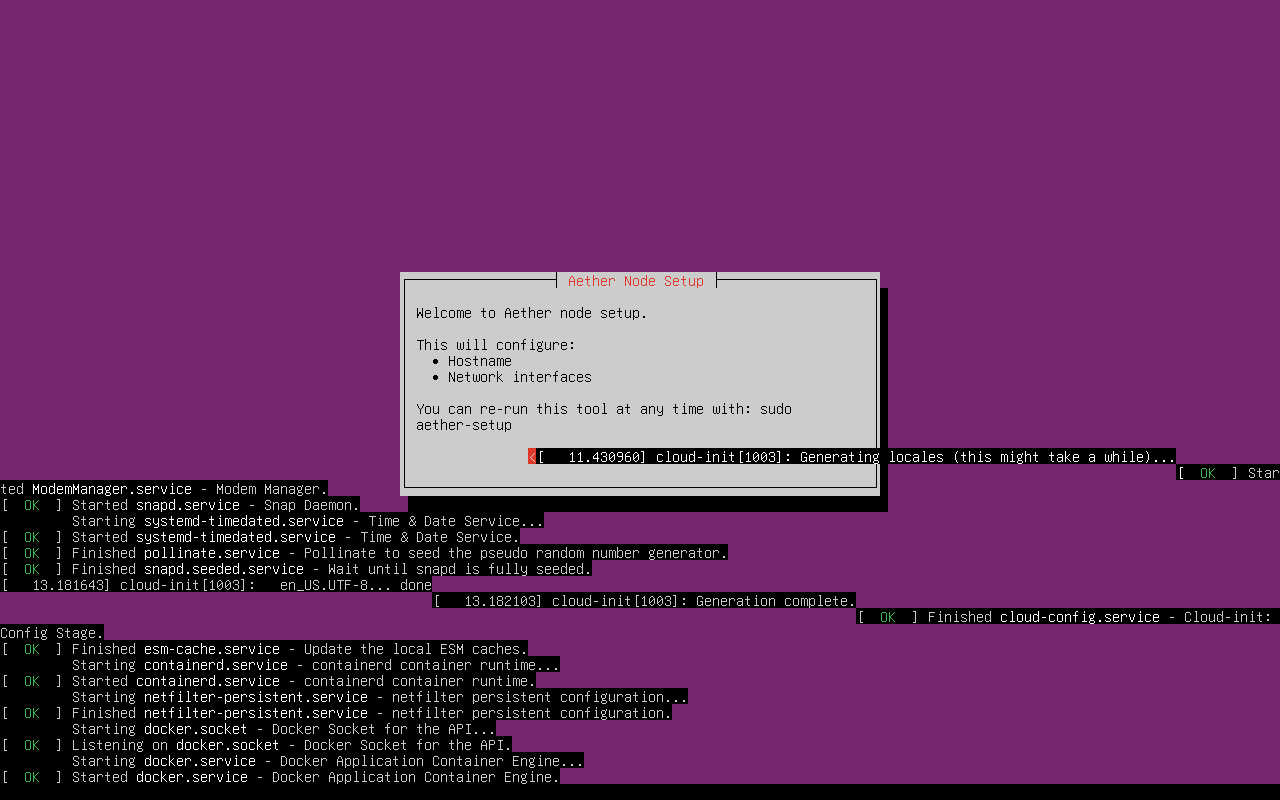
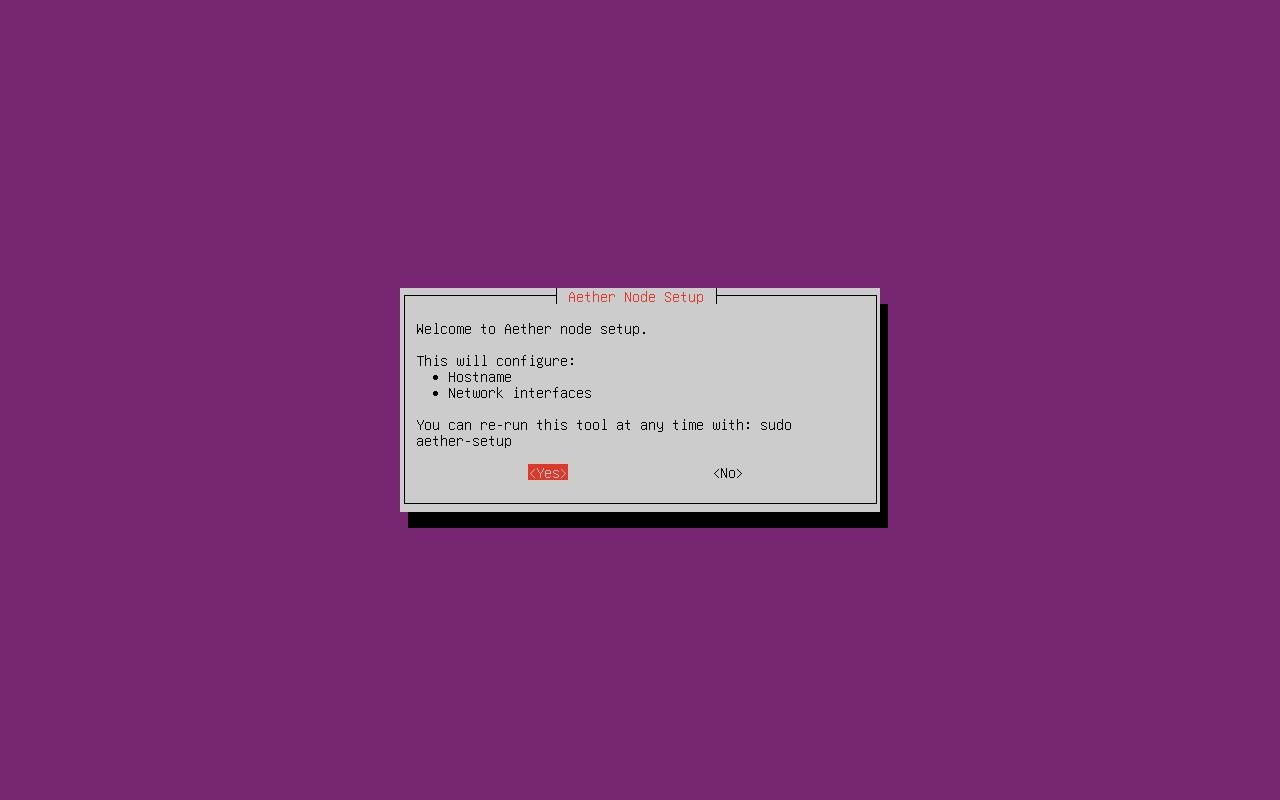
Refine first-boot and wizard pages from the QEMU and lab runs
Claude-Session: https://claude.ai/code/session_01LgFhiz5fxS7sr7JaUAzr93

Changed region(s): [[0.0, 0.3125, 1.0, 1.0]]

diff --git a/tools/screenshots/gui-setup-wizard.spec.ts b/tools/screenshots/gui-setup-wizard.spec.ts
@@ -84,7 +84,12 @@ test.describe.serial('setup wizard', () => {
     await page.goto('/setup');
     await expect(page.getByText('Preflight Checks')).toBeVisible();
     await page.waitForTimeout(2000);
-    await settle(page, /Checking\.\.\.|Running\.\.\.|SSH Pending/);
+    // A reload forgets the SSH verification result; it has to be re-run.
+    if (await page.getByText('SSH Pending').count()) {
+      await page.getByRole('button', { name: 'Re-check All' }).click();
+      await page.waitForTimeout(3000);
+    }
+    await expect(page.getByRole('button', { name: 'Continue' })).toBeEnabled({ timeout: 5 * 60_000 });
     await page.getByRole('button', { name: 'Continue' }).click();
     await expect(page.getByText('Assign Roles')).toBeVisible();
     await shot(page, 'gui', 'setup-wizard-06-roles', { fullPage: true });
